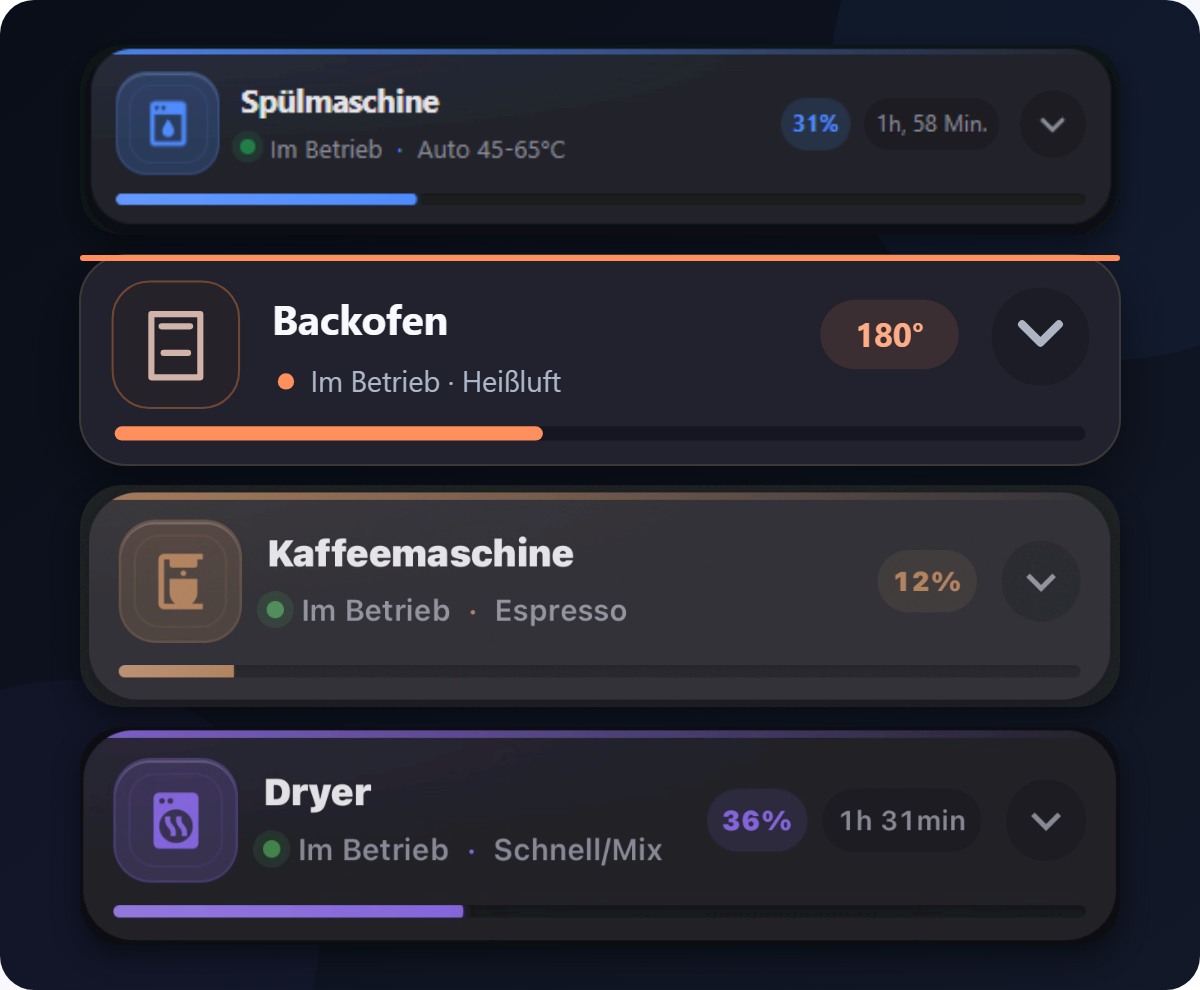
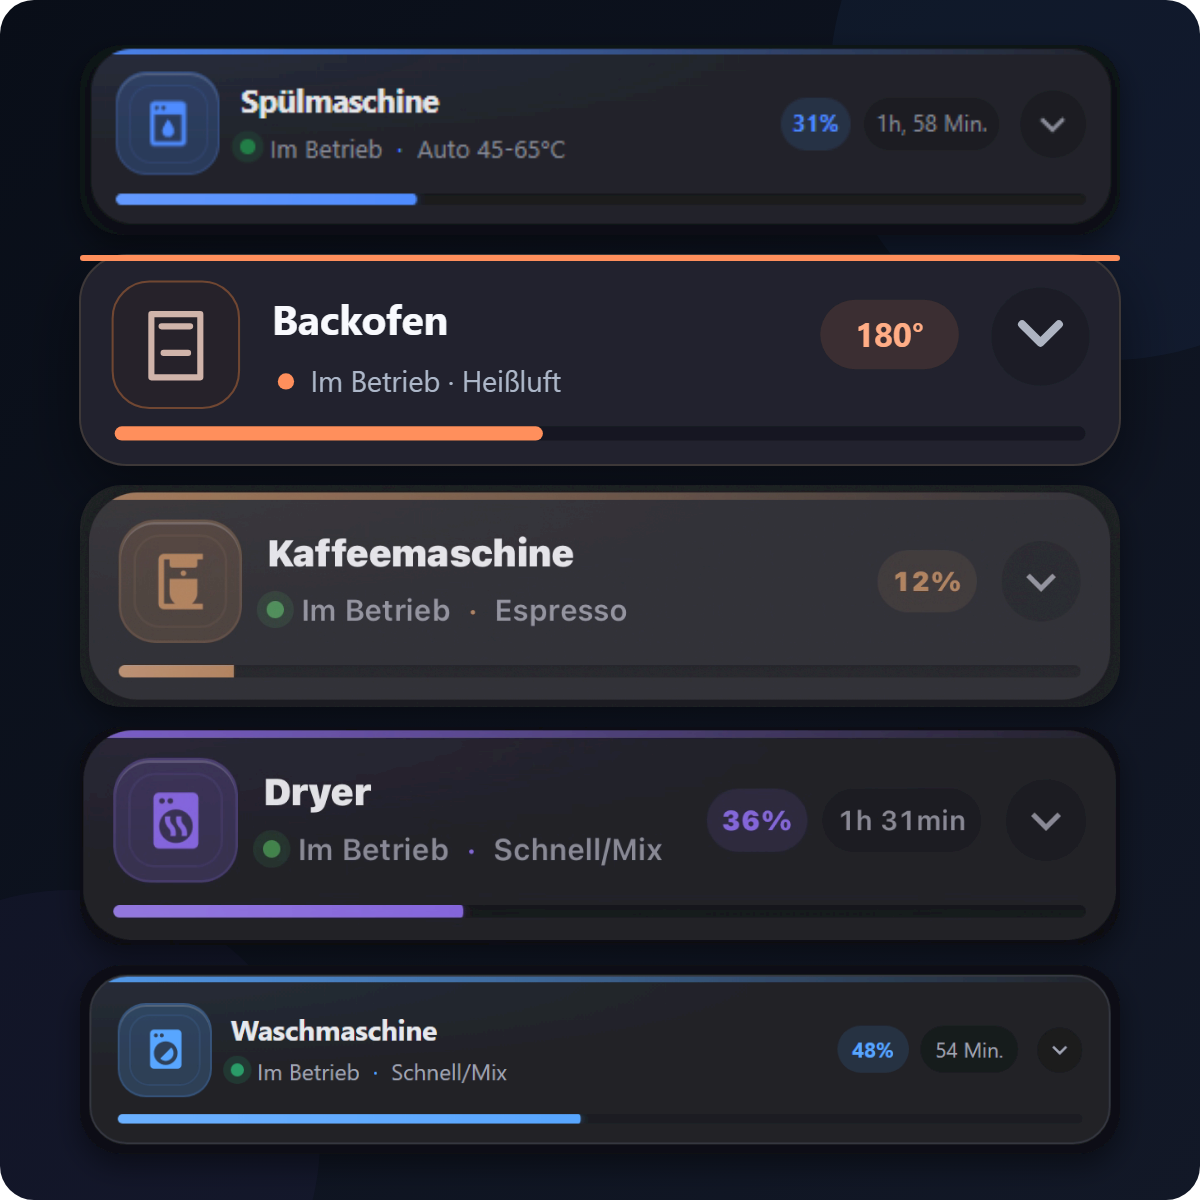
Show the washer card in the README gallery and cover

diff --git a/tests/docs.test.ts b/tests/docs.test.ts
@@ -9,7 +9,7 @@ const imageRoot = "https://raw.githubusercontent.com/leMax6608/home-connect-card
 describe("published documentation assets", () => {
   it("uses existing PNGs at absolute URLs for HACS", () => {
     const references = [...readme.matchAll(/(?:src="|\]\()(https:\/\/raw\.githubusercontent\.com\/[^\s"\)]+)/g)];
-    expect(references).toHaveLength(8);
+    expect(references).toHaveLength(10);
     for (const [, url] of references) {
       expect(url.startsWith(imageRoot)).toBe(true);
       const path = resolve(root, url.slice(imageRoot.length));
@@ -21,11 +21,11 @@ describe("published documentation assets", () => {
     }
   });
 
-  it("constrains all six real screenshots and keeps expanded views collapsible", () => {
+  it("constrains the gallery screenshots and keeps expanded views collapsible", () => {
     const images = [...readme.matchAll(/<img[^>]+(?:compact|expanded)\.png[^>]+>/g)];
-    expect(images).toHaveLength(6);
+    expect(images).toHaveLength(8);
     for (const [tag] of images) expect(tag).toContain('width="552"');
-    expect([...readme.matchAll(/<details>/g)]).toHaveLength(3);
-    expect([...readme.matchAll(/<\/details>/g)]).toHaveLength(3);
+    expect([...readme.matchAll(/<details>/g)]).toHaveLength(4);
+    expect([...readme.matchAll(/<\/details>/g)]).toHaveLength(4);
   });
 });

diff --git a/docs/images/README.md b/docs/images/README.md
@@ -15,12 +15,12 @@ Recommended filenames:
 - `washer-compact.png`
 - `washer-expanded.png`
 
-After adding both images for an appliance, enable its prepared block in the repository's main `README.md` by removing that block's surrounding HTML comment markers. The compact image is then always visible; the expanded image is placed inside a collapsible `<details>` section. This lets each appliance be enabled independently.
+After adding both oven images, enable its prepared block in the repository's main `README.md` by removing the surrounding HTML comment markers. The compact image stays visible and the expanded image sits inside a collapsible `<details>` section.
 
 Use the same browser zoom level for both states. The main README constrains both compact and expanded screenshots to 552 pixels so source images with different resolutions are displayed consistently. Prefer tightly cropped screenshots without personal information, hostnames, IP addresses, location names, or unrelated dashboard content.
 
 Use absolute `https://raw.githubusercontent.com/leMax6608/home-connect-card-pack/main/docs/images/...` URLs for image sources in the main README. Relative HTML image paths do not resolve correctly when HACS displays the README. Keep the fixed display widths and collapsible detailed views when replacing screenshots. HACS reads documentation from the selected release, so README fixes must be included in a new release to reach those users.
 
-The project preview (`cards-preview.svg` / `cards-preview.png`) currently shows real dishwasher, coffee-machine and dryer screenshots plus an illustrative oven card. Washer support was added in v1.8.0; add real oven and washer screenshots before replacing the illustration or extending the gallery. The README includes commented blocks for both missing appliances. Do not enable image links before their files exist. The individual screenshots show earlier versions; refresh both compact and expanded views together when recording new features such as collapsed warnings. Keep the logo and at least one screenshot in the repository for HACS validation.
+The project preview (`cards-preview.svg` / `cards-preview.png`) shows all five appliances. The washer images are browser captures of the actual card with sample data. The dishwasher, coffee machine and dryer use Home Assistant screenshots from earlier versions, and the oven uses an illustration. When replacing a compact screenshot used in the overview, render `cards-preview.svg` to `cards-preview.png` again so the overview reflects the new image. Keep the logo and at least one screenshot in the repository for HACS validation.
 
 `logo.png` is the original, brand-neutral repository logo. Keep the transparent outer canvas intact when deriving smaller icon sizes.

diff --git a/README.md b/README.md
@@ -5,9 +5,9 @@
   <a href="LICENSE"><img src="https://img.shields.io/badge/License-MIT-blue.svg" alt="License: MIT"></a>
 </p>
 
-![Preview of dishwasher, oven, coffee-machine and dryer cards](https://raw.githubusercontent.com/leMax6608/home-connect-card-pack/main/docs/images/cards-preview.png)
+![Preview of dishwasher, oven, coffee machine, dryer and washer cards](https://raw.githubusercontent.com/leMax6608/home-connect-card-pack/main/docs/images/cards-preview.png)
 
-<p><sub>Overview: real dishwasher, coffee-machine and dryer screenshots, plus an illustrative oven card. Real oven and washer screenshots are welcome.</sub></p>
+<p><sub>The overview includes Home Assistant screenshots of the dishwasher, coffee machine and dryer, a rendered washer card with sample data, and an oven illustration.</sub></p>
 
 An **independent, unofficial** family of five native, dependency-light Lovelace custom cards for Home Assistant:
 
@@ -21,7 +21,7 @@ The cards are built with TypeScript and Lit. They do **not** depend on `button-c
 
 ## Screenshots
 
-The available real compact screenshots are shown individually at a readable size. Open the detailed view below a card to see its configured information and controls. These screenshots show earlier versions; available controls depend on your appliance and configuration. In current versions, active warnings are also visible while collapsed.
+Each compact view has an expandable detailed view below it. The dishwasher, coffee machine and dryer screenshots show earlier versions of the cards. Available controls depend on your appliance and configuration. Current versions also show active warnings while collapsed.
 
 ### Dishwasher
 
@@ -73,8 +73,9 @@ The available real compact screenshots are shown individually at a readable size
 
 </details>
 
-<!--
 ### Washer
+
+Rendered from the washer card with sample data. The expanded view includes an example i-Dos refill warning.
 
 <img src="https://raw.githubusercontent.com/leMax6608/home-connect-card-pack/main/docs/images/washer-compact.png" alt="Washer card — compact view" width="552">
 
@@ -85,7 +86,6 @@ The available real compact screenshots are shown individually at a readable size
 <img src="https://raw.githubusercontent.com/leMax6608/home-connect-card-pack/main/docs/images/washer-expanded.png" alt="Washer card — expanded view with all configured information" width="552">
 
 </details>
--->
 
 ## Recommended Home Assistant integration
 
